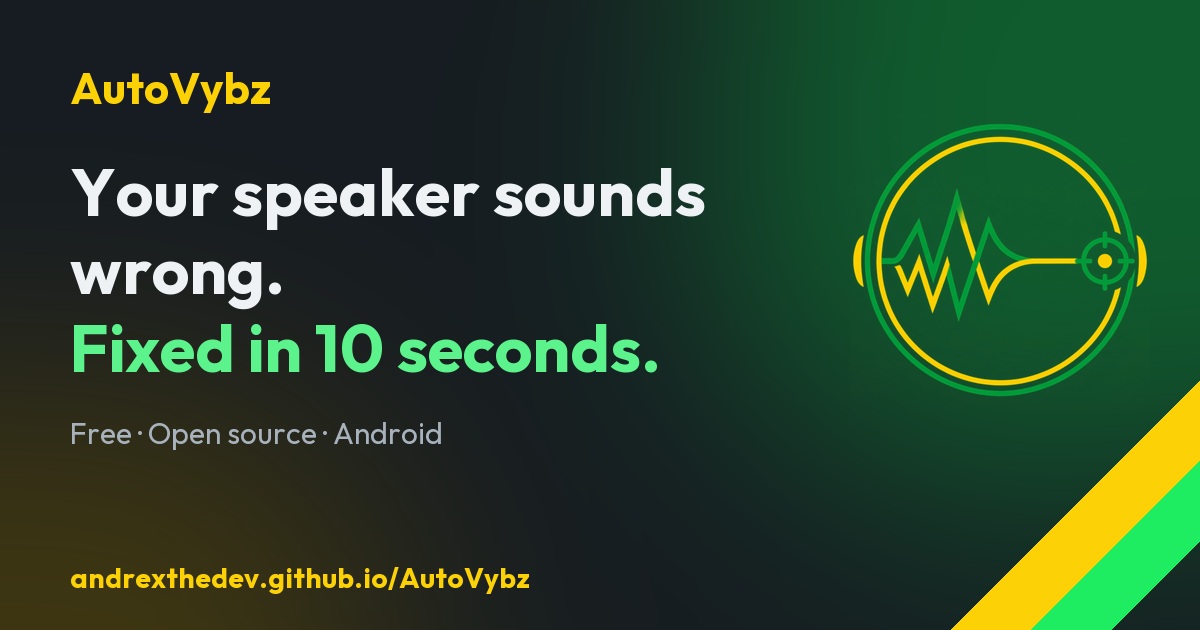
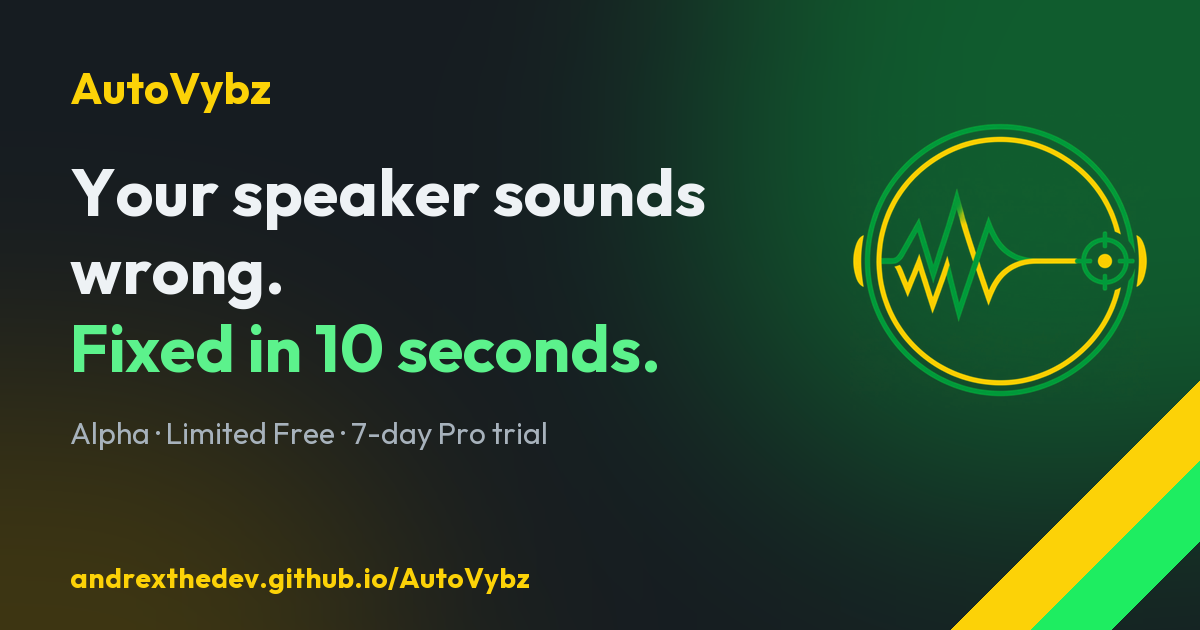
feat(site): update landing page for Free and Pro

Changed region(s): [[0.0617, 0.6635, 0.4625, 0.7238]]

diff --git a/site/src/legal/de/terms.html b/site/src/legal/de/terms.html
@@ -1,8 +1,10 @@
-<div class="box"><p>Diese Bedingungen gelten für die Nutzung dieser Website und der AutoVybz-App. Alles ist kostenlos. Für deine Rechte zur Nutzung, Änderung und Weitergabe der Software geht die Quellcode-Lizenz (GPL-3.0) stets vor.</p></div>
+<div class="box"><p>Diese Bedingungen gelten für die Nutzung dieser Website und der AutoVybz-App. Die Website ist kostenlos. Die App enthält einen limitierten Free-Tarif, einen einmaligen Trial und in der Alpha optionale bezahlte Pro-Zeiträume. Für deine Rechte zur Nutzung, Änderung und Weitergabe der Software geht die Quellcode-Lizenz (GPL-3.0) stets vor.</p></div>
 <h2>1. Anbieter und Geltungsbereich</h2>
 <p>Anbieter ist AndrexTheDev (siehe <a href="imprint.html">Impressum</a>). Diese Bedingungen regeln die Nutzung der Website <a href="{{site_url}}">{{site_url}}</a> und der Android-App AutoVybz („App“).</p>
-<h2>2. Unentgeltliches Angebot</h2>
-<p>Website und App werden kostenlos bereitgestellt. Es gibt keine kostenpflichtigen Funktionen, Abos oder In-App-Käufe. Durch die Nutzung kommt kein entgeltlicher Vertrag zustande.</p>
+<h2>2. Free, Trial und Pro</h2>
+<p>Die Website ist kostenlos. Der Free-Tarif der App hat ein permanentes Banner und strenge Limits (aktuell 1 gespeichertes Profil, 1 Messposition, sichere Standardwerte für Experten-Eingaben und interne Presets). Ein einmaliger 7-Tage-Pro-Trial kann manuell oder nach der ersten erfolgreichen Kalibrierung starten; danach kehrt die App zu Free zurück.</p>
+<p>Optionales Pro entfernt diese Limits für 30 Tage, 365 Tage oder Lifetime zu den auf dieser Website und in der App gezeigten Preisen. In der Alpha erfolgt die Zahlung nur mit SOL, BTC oder ETH an die aufgeführten Projektadressen und verlängert sich nie automatisch. Danach trägst du die Transaktions-ID (TXID) in der App ein; die Aktivierung erfolgt lokal und Zahlungen werden in der Alpha manuell abgeglichen. Prüfe Coin, Netzwerk, Adresse und Betrag vor dem Senden. Falls eine korrekte Zahlung nicht aktiviert, melde dich mit der TXID. Zwingende Verbraucherrechte bleiben unberührt.</p>
+<p>Pro ist eine Freischaltung in den offiziellen Builds. Sie schränkt die Rechte nicht ein, die dir die GPL am Quellcode gewährt.</p>
 <h2>3. Lizenz</h2>
 <p>Die App ist freie Software unter der <a href="https://www.gnu.org/licenses/gpl-3.0.html">GNU General Public License v3.0</a>. Du darfst sie nach deren Bedingungen nutzen, untersuchen, verändern und weitergeben. Die App basiert auf Equalizer314 von bearinmindcat.</p>
 <h2>4. Alpha-Software</h2>
@@ -15,9 +17,9 @@
 <li>Prüfe das Ergebnis mit den Ohren; schalte den EQ aus, wenn etwas falsch klingt.</li>
 </ul>
 <h2>6. Gewährleistung und Haftung</h2>
-<p>Die Software wird, soweit gesetzlich zulässig, „wie besehen“ und ohne jede Gewährleistung bereitgestellt (Ziffern 15 und 16 GPL-3.0). Für die unentgeltlich überlassene Website und App haften wir nur für Vorsatz und grobe Fahrlässigkeit. Diese Beschränkung gilt nicht für Schäden aus der Verletzung von Leben, Körper oder Gesundheit, für die Haftung nach zwingendem Produkthaftungsrecht sowie dort, wo eine Haftung gesetzlich nicht ausgeschlossen werden kann.</p>
-<h2>7. Spenden</h2>
-<p>Spenden sind freiwillige Schenkungen. Sie begründen keinen Anspruch auf Leistungen, Funktionen, Support oder sonstige Gegenleistungen und können nicht erstattet werden. Spendenquittungen können nicht ausgestellt werden. Krypto-Transaktionen sind unumkehrbar: Prüfe immer Adresse und Netzwerk – an eine falsche Adresse oder über ein falsches Netzwerk gesendete Beträge sind verloren. Spenden können in deinem Land steuerlichen Regeln unterliegen.</p>
+<p>Die Software wird, soweit gesetzlich zulässig, „wie besehen“ und ohne jede Gewährleistung bereitgestellt (Ziffern 15 und 16 GPL-3.0). Für Website und App haften wir nur für Vorsatz und grobe Fahrlässigkeit. Diese Beschränkung gilt nicht für Schäden aus der Verletzung von Leben, Körper oder Gesundheit, für die Haftung nach zwingendem Produkthaftungsrecht sowie dort, wo eine Haftung gesetzlich nicht ausgeschlossen werden kann.</p>
+<h2>7. Spenden und Krypto-Zahlungen</h2>
+<p>Freiwillige Spenden sind Schenkungen. Sie begründen keinen Anspruch auf Leistungen, Funktionen, Support oder sonstige Gegenleistungen und können nicht erstattet werden. Eine bezahlte Pro-Zahlung nach Ziffer 2 ist keine Spende. Spendenquittungen können nicht ausgestellt werden. Krypto-Transaktionen sind unumkehrbar: Prüfe immer Adresse und Netzwerk – an eine falsche Adresse oder über ein falsches Netzwerk gesendete Beträge sind verloren. Spenden und Zahlungen können in deinem Land steuerlichen Regeln unterliegen.</p>
 <h2>8. Marken</h2>
 <p>Android ist eine Marke der Google LLC; Harman ist eine Marke von Harman International; Dolby ist eine Marke der Dolby Laboratories; weitere Namen können Marken ihrer Inhaber sein. Sie werden nur beschreibend verwendet. AutoVybz steht in keiner Verbindung zu diesen Unternehmen und wird nicht von ihnen unterstützt.</p>
 <h2>9. Änderungen</h2>

diff --git a/site/src/legal/es/terms.html b/site/src/legal/es/terms.html
@@ -1,8 +1,10 @@
-<div class="box"><p>Estas condiciones se aplican al uso de esta web y de la app AutoVybz. Todo es gratuito. En cuanto a tus derechos para usar, modificar y distribuir el software, prevalece siempre la licencia del código fuente (GPL-3.0).</p></div>
+<div class="box"><p>Estas condiciones se aplican al uso de esta web y de la app AutoVybz. La web es gratuita. La app incluye una versión Free limitada, una prueba única y periodos Pro de pago opcionales durante la Alpha. En cuanto a tus derechos para usar, modificar y distribuir el software, prevalece siempre la licencia del código fuente (GPL-3.0).</p></div>
 <h2>1. Titular y ámbito</h2>
 <p>El titular es AndrexTheDev (ver <a href="imprint.html">aviso legal</a>). Estas condiciones regulan el uso de la web <a href="{{site_url}}">{{site_url}}</a> y de la app Android AutoVybz («app»).</p>
-<h2>2. Oferta gratuita</h2>
-<p>La web y la app se ofrecen gratis. No hay funciones de pago, suscripciones ni compras dentro de la app. Su uso no da lugar a ningún contrato oneroso.</p>
+<h2>2. Free, prueba y Pro</h2>
+<p>La web es gratuita. La versión Free de la app tiene un banner permanente y límites estrictos (actualmente 1 perfil guardado, 1 posición de medición, valores seguros para entradas expertas y preajustes internos). Una prueba Pro única de 7 días puede empezar manualmente o tras la primera calibración correcta; después la app vuelve a Free.</p>
+<p>Pro opcional elimina esos límites durante 30 días, 365 días o de por vida por los precios mostrados en esta web y en la app. Durante la Alpha, el pago se hace solo con SOL, BTC o ETH a las direcciones del proyecto indicadas y nunca se renueva automáticamente. Después introduces el ID de transacción (TXID) en la app; la activación es local y los pagos se reconcilian manualmente durante la Alpha. Comprueba la moneda, la red, la dirección y la cantidad antes de enviar. Si un pago correcto no se activa, contáctanos con el TXID. Los derechos imperativos de los consumidores no se ven afectados.</p>
+<p>Pro es un desbloqueo en las compilaciones oficiales. No limita los derechos que la GPL te concede sobre el código fuente.</p>
 <h2>3. Licencia</h2>
 <p>La app es software libre bajo la <a href="https://www.gnu.org/licenses/gpl-3.0.html">GNU General Public License v3.0</a>. Puedes usarla, estudiarla, modificarla y redistribuirla según los términos de esa licencia. La app se basa en Equalizer314 de bearinmindcat.</p>
 <h2>4. Software en fase alfa</h2>
@@ -15,9 +17,9 @@
 <li>Comprueba el resultado de oído; desactiva el ecualizador si algo suena mal.</li>
 </ul>
 <h2>6. Garantía y responsabilidad</h2>
-<p>El software se proporciona «tal cual», sin garantía de ningún tipo, en la medida permitida por la ley aplicable (cláusulas 15 y 16 de la GPL-3.0). Por la web y la app gratuitas solo respondemos en caso de dolo o negligencia grave. Esta limitación no se aplica a los daños a la vida, la integridad física o la salud, a la responsabilidad conforme a la normativa imperativa de responsabilidad por productos, ni cuando la responsabilidad no pueda excluirse legalmente.</p>
-<h2>7. Donaciones</h2>
-<p>Las donaciones son regalos voluntarios. No generan derecho a servicios, funciones, soporte ni otra contraprestación y no se pueden reembolsar. No se pueden emitir certificados de donación. Las transacciones en cripto son irreversibles: comprueba siempre la dirección y la red – los fondos enviados a una dirección o red equivocada se pierden. Las donaciones pueden estar sujetas a normas fiscales en tu país.</p>
+<p>El software se proporciona «tal cual», sin garantía de ningún tipo, en la medida permitida por la ley aplicable (cláusulas 15 y 16 de la GPL-3.0). Por la web y la app solo respondemos en caso de dolo o negligencia grave. Esta limitación no se aplica a los daños a la vida, la integridad física o la salud, a la responsabilidad conforme a la normativa imperativa de responsabilidad por productos, ni cuando la responsabilidad no pueda excluirse legalmente.</p>
+<h2>7. Donaciones y pagos cripto</h2>
+<p>Las donaciones voluntarias son regalos. No generan derecho a servicios, funciones, soporte ni otra contraprestación y no se pueden reembolsar. Un pago Pro conforme a la cláusula 2 no es una donación. No se pueden emitir certificados de donación. Las transacciones en cripto son irreversibles: comprueba siempre la dirección y la red – los fondos enviados a una dirección o red equivocada se pierden. Las donaciones y pagos pueden estar sujetos a normas fiscales en tu país.</p>
 <h2>8. Marcas</h2>
 <p>Android es una marca de Google LLC; Harman es una marca de Harman International; Dolby es una marca de Dolby Laboratories; otros nombres pueden ser marcas de sus titulares. Se usan solo de forma descriptiva. AutoVybz no está afiliado ni respaldado por estas empresas.</p>
 <h2>9. Cambios</h2>

diff --git a/site/src/legal/en/terms.html b/site/src/legal/en/terms.html
@@ -1,8 +1,10 @@
-<div class="box"><p>These terms apply to the use of this website and of the AutoVybz app. Everything is free of charge. The source code licence (GPL-3.0) always takes precedence regarding your rights to use, modify and distribute the software.</p></div>
+<div class="box"><p>These terms apply to the use of this website and of the AutoVybz app. The website is free of charge. The app includes a limited Free tier, a one-time trial and optional paid Pro periods during Alpha. The source code licence (GPL-3.0) always takes precedence regarding your rights to use, modify and distribute the software.</p></div>
 <h2>1. Provider and scope</h2>
 <p>Provider is AndrexTheDev (see <a href="imprint.html">legal notice</a>). These terms govern the use of the website <a href="{{site_url}}">{{site_url}}</a> and of the AutoVybz Android app ("app").</p>
-<h2>2. Free offer</h2>
-<p>Website and app are provided free of charge. There are no paid features, subscriptions or in-app purchases. No contract requiring payment is concluded by using them.</p>
+<h2>2. Free, trial and Pro</h2>
+<p>The website is free of charge. The app's Free tier has a permanent banner and strict limits (currently 1 saved profile, 1 measurement position, safe default expert inputs and internal presets). A one-time 7-day Pro trial may start manually or after the first successful calibration; afterwards the app returns to Free.</p>
+<p>Optional Pro removes those limits for 30 days, 365 days or lifetime at the prices shown on this website and in the app. During Alpha, payment is made only in SOL, BTC or ETH to the listed project addresses and never renews automatically. You then enter the transaction ID (TXID) in the app; activation is local and payments are reconciled manually during Alpha. Check the coin, network, address and amount before sending. If a correct payment does not activate, contact us with the TXID. Mandatory consumer rights remain unaffected.</p>
+<p>Pro is an unlock in the official builds. It does not restrict the rights granted to you in the source code by the GPL.</p>
 <h2>3. Licence</h2>
 <p>The app is free software under the <a href="https://www.gnu.org/licenses/gpl-3.0.html">GNU General Public License v3.0</a>. You may use, study, modify and redistribute it under the terms of that licence. The app is based on Equalizer314 by bearinmindcat.</p>
 <h2>4. Alpha software</h2>
@@ -15,9 +17,9 @@
 <li>Check the result by ear; switch the EQ off if something sounds wrong.</li>
 </ul>
 <h2>6. Warranty and liability</h2>
-<p>The software is provided "as is", without warranty of any kind, to the extent permitted by applicable law (sections 15 and 16 GPL-3.0). For the free website and app we are liable only for intent and gross negligence. This limitation does not apply to injury to life, body or health, to liability under mandatory product liability law, or where liability cannot be excluded by law.</p>
-<h2>7. Donations</h2>
-<p>Donations are voluntary gifts. They do not create any claim to services, features, support or other consideration, and they cannot be refunded. No donation receipts can be issued. Crypto transactions are irreversible: always check address and network – funds sent to a wrong address or network are lost. Donations may be subject to tax rules in your country.</p>
+<p>The software is provided "as is", without warranty of any kind, to the extent permitted by applicable law (sections 15 and 16 GPL-3.0). For the website and app we are liable only for intent and gross negligence. This limitation does not apply to injury to life, body or health, to liability under mandatory product liability law, or where liability cannot be excluded by law.</p>
+<h2>7. Donations and crypto payments</h2>
+<p>Voluntary donations are gifts. They do not create any claim to services, features, support or other consideration, and they cannot be refunded. A paid Pro payment under section 2 is not a donation. No donation receipts can be issued. Crypto transactions are irreversible: always check the address and network – funds sent to a wrong address or network are lost. Donations and payments may be subject to tax rules in your country.</p>
 <h2>8. Trademarks</h2>
 <p>Android is a trademark of Google LLC; Harman is a trademark of Harman International; Dolby is a trademark of Dolby Laboratories; other names may be trademarks of their owners. They are used only descriptively. AutoVybz is not affiliated with or endorsed by these companies.</p>
 <h2>9. Changes</h2>

diff --git a/site/src/legal/de/privacy.html b/site/src/legal/de/privacy.html
@@ -14,11 +14,11 @@
 <p>Die angezeigte Anzahl der GitHub-Sterne wird beim Erstellen der Website abgerufen, nicht von deinem Browser. Dein Browser stellt keine Anfrage an die GitHub-API.</p>
 <h2>7. Kontakt per E-Mail</h2>
 <p>Wenn du uns eine E-Mail schreibst, verarbeiten wir deine Adresse und Nachricht ausschließlich zur Beantwortung deiner Anfrage (Art. 6 Abs. 1 lit. b und f DSGVO) und löschen sie, sobald sie nicht mehr erforderlich sind, sofern keine gesetzlichen Aufbewahrungspflichten bestehen.</p>
-<h2>8. Spenden</h2>
-<p>Krypto-Spenden werden naturgemäß öffentlich auf der jeweiligen Blockchain verzeichnet. Wir versuchen nicht, Wallet-Adressen Personen zuzuordnen, und verarbeiten im Zusammenhang mit Spenden keine weiteren Daten.</p>
+<h2>8. Krypto-Zahlungen und Spenden</h2>
+<p>Diese Website zeigt nur Krypto-Adressen und QR-Codes; sie hat keinen Checkout und keine Wallet und erhält von deinem Browser keine Zahlungsdaten. Transaktionen werden naturgemäß öffentlich auf der jeweiligen Blockchain verzeichnet. Wir versuchen nicht, Wallet-Adressen Personen zuzuordnen. Wenn du dich wegen einer Zahlung meldest, verarbeiten wir die von dir gesendeten Angaben (z. B. eine TXID) nur zur Bearbeitung dieser Anfrage.</p>
 <h2>9. Deine Rechte</h2>
 <p>Nach der DSGVO hast du das Recht auf Auskunft (Art. 15), Berichtigung (Art. 16), Löschung (Art. 17), Einschränkung der Verarbeitung (Art. 18), Datenübertragbarkeit (Art. 20) und Widerspruch gegen Verarbeitungen auf Grundlage berechtigter Interessen (Art. 21). Außerdem kannst du dich bei einer Datenschutz-Aufsichtsbehörde beschweren, insbesondere in dem EU-Mitgliedstaat deines Aufenthalts (Art. 77).</p>
 <h2>10. Die AutoVybz-App</h2>
-<p>Für die App gilt eine eigene Datenschutzerklärung: <a href="{{repo}}/blob/main/PRIVACY_POLICY.md">Datenschutzerklärung der AutoVybz-App</a>. Kurz gesagt: Das Messsignal wird nur auf deinem Handy ausgewertet und niemals hochgeladen.</p>
+<p>Für die App gilt eine eigene Datenschutzerklärung: <a href="{{repo}}/blob/main/PRIVACY_POLICY.md">Datenschutzerklärung der AutoVybz-App</a>. Kurz gesagt: Das Messsignal wird nur auf deinem Handy ausgewertet und niemals hochgeladen. Wenn du Pro mit einer TXID aktivierst, speichert die App nur einen SHA-256-Hash dieser TXID sowie Tarif und Ablauf auf dem Gerät.</p>
 <h2>11. Änderungen</h2>
 <p>Wir passen diese Erklärung an, wenn sich die Website ändert. Die vollständige Historie ist im öffentlichen Repository einsehbar.</p>

diff --git a/site/src/legal/es/privacy.html b/site/src/legal/es/privacy.html
@@ -14,11 +14,11 @@
 <p>El número de estrellas de GitHub que se muestra se obtiene al generar la web, no desde tu navegador. Tu navegador no hace ninguna petición a la API de GitHub.</p>
 <h2>7. Contacto por correo electrónico</h2>
 <p>Si nos escribes, tratamos tu dirección y tu mensaje únicamente para responder a tu consulta (art. 6.1.b y f RGPD) y los eliminamos cuando ya no sean necesarios, salvo obligaciones legales de conservación.</p>
-<h2>8. Donaciones</h2>
-<p>Las donaciones en cripto quedan registradas públicamente en la blockchain correspondiente por su propia naturaleza. No intentamos vincular direcciones de monedero con personas ni tratamos otros datos relacionados con las donaciones.</p>
+<h2>8. Pagos cripto y donaciones</h2>
+<p>Esta web solo muestra direcciones cripto y códigos QR; no tiene proceso de compra ni monedero y no recibe datos de pago desde tu navegador. Las transacciones quedan registradas públicamente en la blockchain correspondiente por su propia naturaleza. No intentamos vincular direcciones de monedero con personas. Si nos contactas por un pago, tratamos los datos que nos envíes (por ejemplo un TXID) solo para gestionar esa consulta.</p>
 <h2>9. Tus derechos</h2>
 <p>Según el RGPD tienes derecho de acceso (art. 15), rectificación (art. 16), supresión (art. 17), limitación del tratamiento (art. 18), portabilidad (art. 20) y oposición al tratamiento basado en intereses legítimos (art. 21). También puedes presentar una reclamación ante una autoridad de control de protección de datos, en particular en el Estado miembro de tu residencia (art. 77), en España la Agencia Española de Protección de Datos (AEPD).</p>
 <h2>10. La app AutoVybz</h2>
-<p>La app tiene su propia política de privacidad: <a href="{{repo}}/blob/main/PRIVACY_POLICY.md">política de privacidad de la app AutoVybz</a>. En resumen: el audio de la medición se analiza solo en tu móvil y nunca se sube.</p>
+<p>La app tiene su propia política de privacidad: <a href="{{repo}}/blob/main/PRIVACY_POLICY.md">política de privacidad de la app AutoVybz</a>. En resumen: el audio de la medición se analiza solo en tu móvil y nunca se sube. Si activas Pro con un TXID, la app guarda solo un hash SHA-256 de ese TXID, además del plan y la caducidad, en el dispositivo.</p>
 <h2>11. Cambios</h2>
 <p>Actualizaremos esta política si la web cambia. El historial completo puede consultarse en el repositorio público.</p>

diff --git a/site/src/legal/en/privacy.html b/site/src/legal/en/privacy.html
@@ -14,11 +14,11 @@
 <p>The GitHub star count shown on the page is fetched when the website is built, not by your browser. Your browser makes no request to the GitHub API.</p>
 <h2>7. Contact by e-mail</h2>
 <p>If you e-mail us, we process your address and message solely to answer your request (Art. 6(1)(b) and (f) GDPR) and delete them once they are no longer needed, unless statutory retention obligations apply.</p>
-<h2>8. Donations</h2>
-<p>Crypto donations are recorded publicly on the respective blockchain by their nature. We do not try to link wallet addresses to persons and do not process any further data in connection with donations.</p>
+<h2>8. Crypto payments and donations</h2>
+<p>This website only displays crypto addresses and QR codes; it has no checkout or wallet and receives no payment data from your browser. Transactions are recorded publicly on the respective blockchain by their nature. We do not try to link wallet addresses to persons. If you contact us about a payment, we process the details you send (for example a TXID) only to handle that request.</p>
 <h2>9. Your rights</h2>
 <p>Under the GDPR you have the right of access (Art. 15), rectification (Art. 16), erasure (Art. 17), restriction of processing (Art. 18), data portability (Art. 20) and to object to processing based on legitimate interests (Art. 21). You also have the right to lodge a complaint with a data protection supervisory authority, in particular in the EU member state of your residence (Art. 77).</p>
 <h2>10. The AutoVybz app</h2>
-<p>The app has its own privacy policy: <a href="{{repo}}/blob/main/PRIVACY_POLICY.md">AutoVybz app privacy policy</a>. In short: the measurement audio is analysed only on your phone and never uploaded.</p>
+<p>The app has its own privacy policy: <a href="{{repo}}/blob/main/PRIVACY_POLICY.md">AutoVybz app privacy policy</a>. In short: the measurement audio is analysed only on your phone and never uploaded. If you activate Pro with a TXID, the app stores only a SHA-256 hash of that TXID, plus the plan and expiry, on the device.</p>
 <h2>11. Changes</h2>
 <p>We will update this policy if the website changes. The full history is visible in the public repository.</p>

diff --git a/site/static/style.css b/site/static/style.css
@@ -205,6 +205,19 @@ input[type=range] { accent-color: var(--green); width: 140px; }
 .compare .hl { background: rgba(30,237,97,.14); color: #fff; }
 .compare thead .hl { background: var(--green); color: var(--on-green); }
 
+/* Free / Pro plans */
+.plans { display: grid; grid-template-columns: repeat(4, 1fr); gap: 18px; margin: 46px auto 26px; align-items: stretch; }
+@media (max-width: 1000px) { .plans { grid-template-columns: repeat(2, 1fr); } }
+@media (max-width: 560px) { .plans { grid-template-columns: 1fr; } }
+.plan { position: relative; background: var(--bg3); border: 1px solid var(--line); border-radius: var(--r); padding: 30px 24px 26px; }
+.plan-hl { border-color: var(--gold); box-shadow: 0 18px 50px -24px rgba(252, 210, 7, .75); }
+.plan-badge { position: absolute; top: -13px; right: 18px; background: var(--gold); color: #1D252B; font-size: .72rem; font-weight: 900; letter-spacing: .06em; text-transform: uppercase; padding: 6px 10px; border-radius: 999px; }
+.plan h3 { color: #fff; }
+.plan-price { font-size: clamp(2rem, 4vw, 3rem); font-weight: 900; line-height: 1; color: var(--green-hi); margin-top: 18px; }
+.plan-hl .plan-price { color: var(--gold); }
+.plan-period { color: #DDE3E7; font-weight: 800; margin: 8px 0 16px; }
+.plan p { color: var(--muted); font-size: .94rem; margin: 0; }
+
 /* challenge + share */
 .challenge-steps { list-style: none; padding: 0; margin: 30px 0 0; display: flex; flex-wrap: wrap; justify-content: center; gap: 12px; counter-reset: c; }
 .challenge-steps li { background: #192025; border: 1px solid #3D4955; border-radius: 999px; padding: 10px 18px; font-weight: 700; }

diff --git a/site/src/index.html b/site/src/index.html
@@ -145,6 +145,21 @@
   </div>
 </section>
 
+<!-- ============ FREE / PRO PLANS ============ -->
+<section class="section section-alt" id="plans">
+  <div class="wrap narrow center">
+    <span class="kicker reveal">{{plans.kicker}}</span>
+    <h2 class="reveal">{{plans.title}}</h2>
+    <p class="lead reveal">{{plans.sub}}</p>
+  </div>
+  <div class="wrap plans">{{list:plans}}</div>
+  <p class="wrap narrow fine center">{{plans.note}}</p>
+  <div class="cta-row center reveal">
+    <a class="btn btn-green btn-xl" href="#get">{{plans.cta}}</a>
+    <a class="btn btn-ghost btn-xl" href="#donate">{{plans.payment_cta}}</a>
+  </div>
+</section>
+
 <!-- ============ CHALLENGE + SHARE ============ -->
 <section class="section section-hot" id="challenge">
   <div class="wrap narrow center">

diff --git a/site/src/legal/es/imprint.html b/site/src/legal/es/imprint.html
@@ -1,4 +1,4 @@
-<div class="box"><p><b>AutoVybz es un proyecto de código abierto privado y sin ánimo de lucro.</b> En esta web y en la app no se vende nada; las donaciones son voluntarias.</p></div>
+<div class="box"><p><b>AutoVybz es un proyecto de código abierto de AndrexTheDev.</b> Esta web no tiene proceso de compra. La app ofrece una versión Free limitada y un desbloqueo Pro de pago opcional durante la Alpha, pagado con cripto a las direcciones mostradas; las donaciones separadas son voluntarias.</p></div>
 <h2>Titular y responsable del contenido</h2>
 <p>AndrexTheDev<br>Correo electrónico: <a href="mailto:{{email}}">{{email}}</a><br>Proyecto: <a href="{{repo}}">{{repo}}</a></p>
 <h2>Contacto</h2>

diff --git a/site/src/legal/de/imprint.html b/site/src/legal/de/imprint.html
@@ -1,4 +1,4 @@
-<div class="box"><p><b>AutoVybz ist ein privates, nicht-kommerzielles Open-Source-Projekt.</b> Auf dieser Website und in der App wird nichts verkauft; Spenden sind freiwillig.</p></div>
+<div class="box"><p><b>AutoVybz ist ein Open-Source-Projekt von AndrexTheDev.</b> Diese Website hat keinen Checkout. Die App bietet in der Alpha einen limitierten Free-Tarif und eine optionale bezahlte Pro-Freischaltung per Krypto an die gezeigten Adressen; separate Spenden sind freiwillig.</p></div>
 <h2>Anbieter und verantwortlich für den Inhalt</h2>
 <p>AndrexTheDev<br>E-Mail: <a href="mailto:{{email}}">{{email}}</a><br>Projekt: <a href="{{repo}}">{{repo}}</a></p>
 <h2>Kontakt</h2>

diff --git a/site/src/legal/en/imprint.html b/site/src/legal/en/imprint.html
@@ -1,4 +1,4 @@
-<div class="box"><p><b>AutoVybz is a private, non-commercial open-source project.</b> Nothing is sold on this website or in the app; donations are voluntary.</p></div>
+<div class="box"><p><b>AutoVybz is an open-source project by AndrexTheDev.</b> This website has no checkout. The app offers a limited Free tier and an optional paid Pro unlock during Alpha, paid in crypto to the addresses shown; separate donations are voluntary.</p></div>
 <h2>Operator and responsible for content</h2>
 <p>AndrexTheDev<br>E-mail: <a href="mailto:{{email}}">{{email}}</a><br>Project: <a href="{{repo}}">{{repo}}</a></p>
 <h2>Contact</h2>

diff --git a/site/src/partials/header.html b/site/src/partials/header.html
@@ -7,6 +7,7 @@
       <a href="{{home}}#how">{{nav.how}}</a>
       <a href="{{home}}#roast">{{nav.roast}}</a>
       <a href="{{home}}#features">{{nav.features}}</a>
+      <a href="{{home}}#plans">{{nav.plans}}</a>
       <a href="{{home}}#faq">{{nav.faq}}</a>
     </nav>
     <div class="top-actions">
